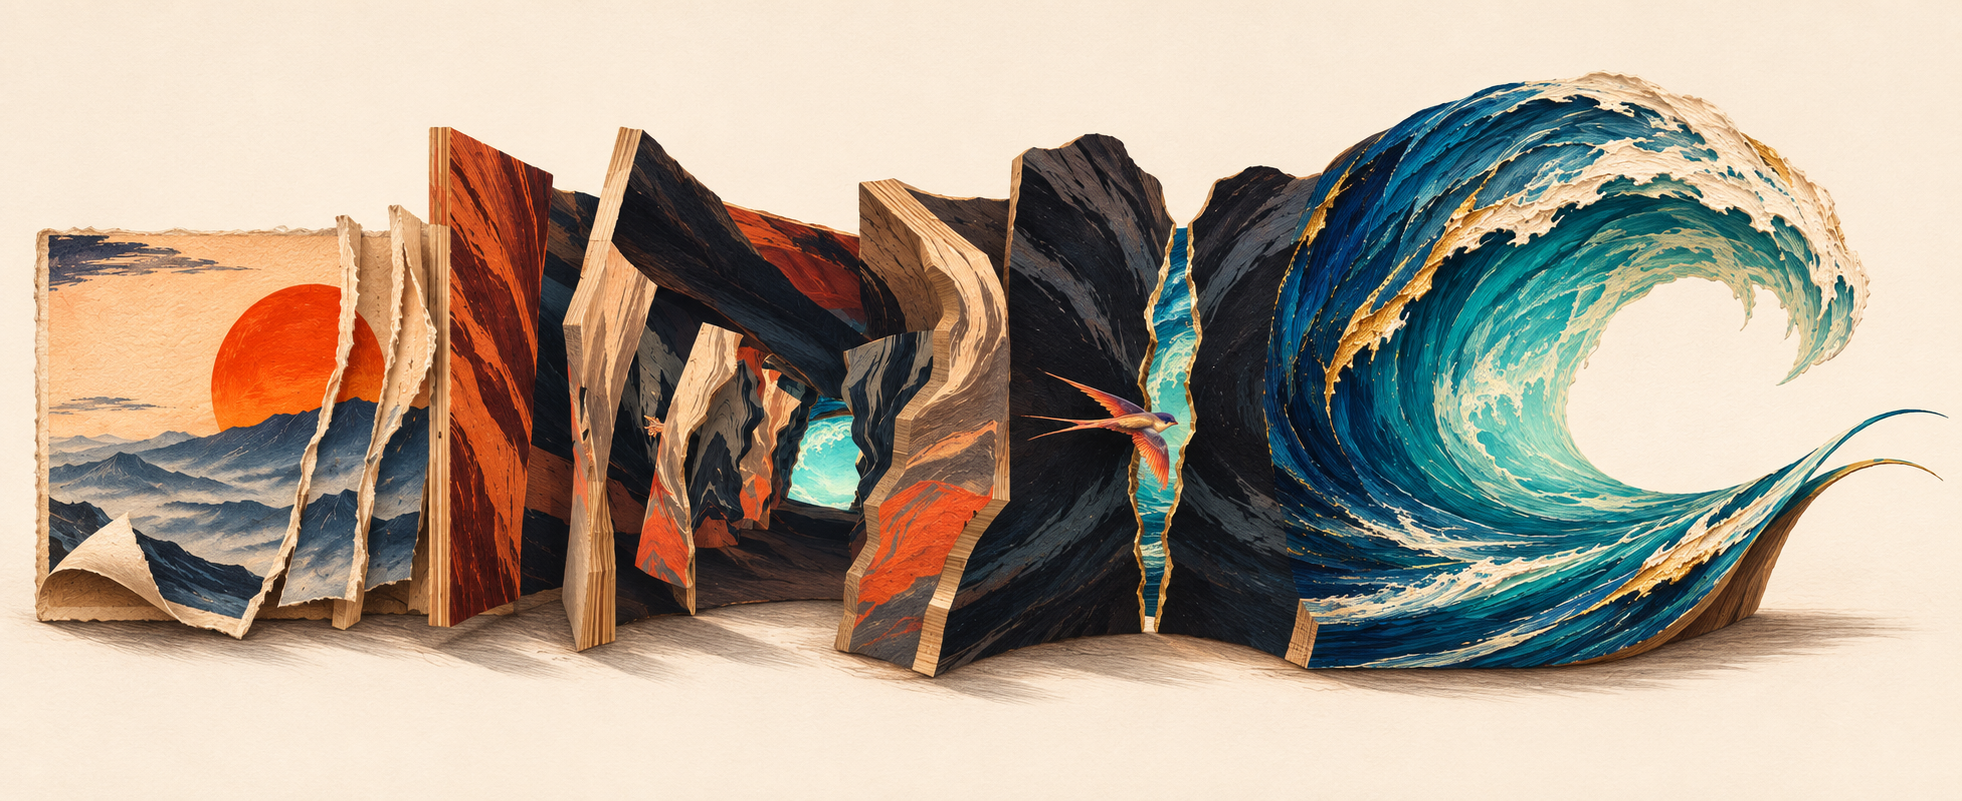
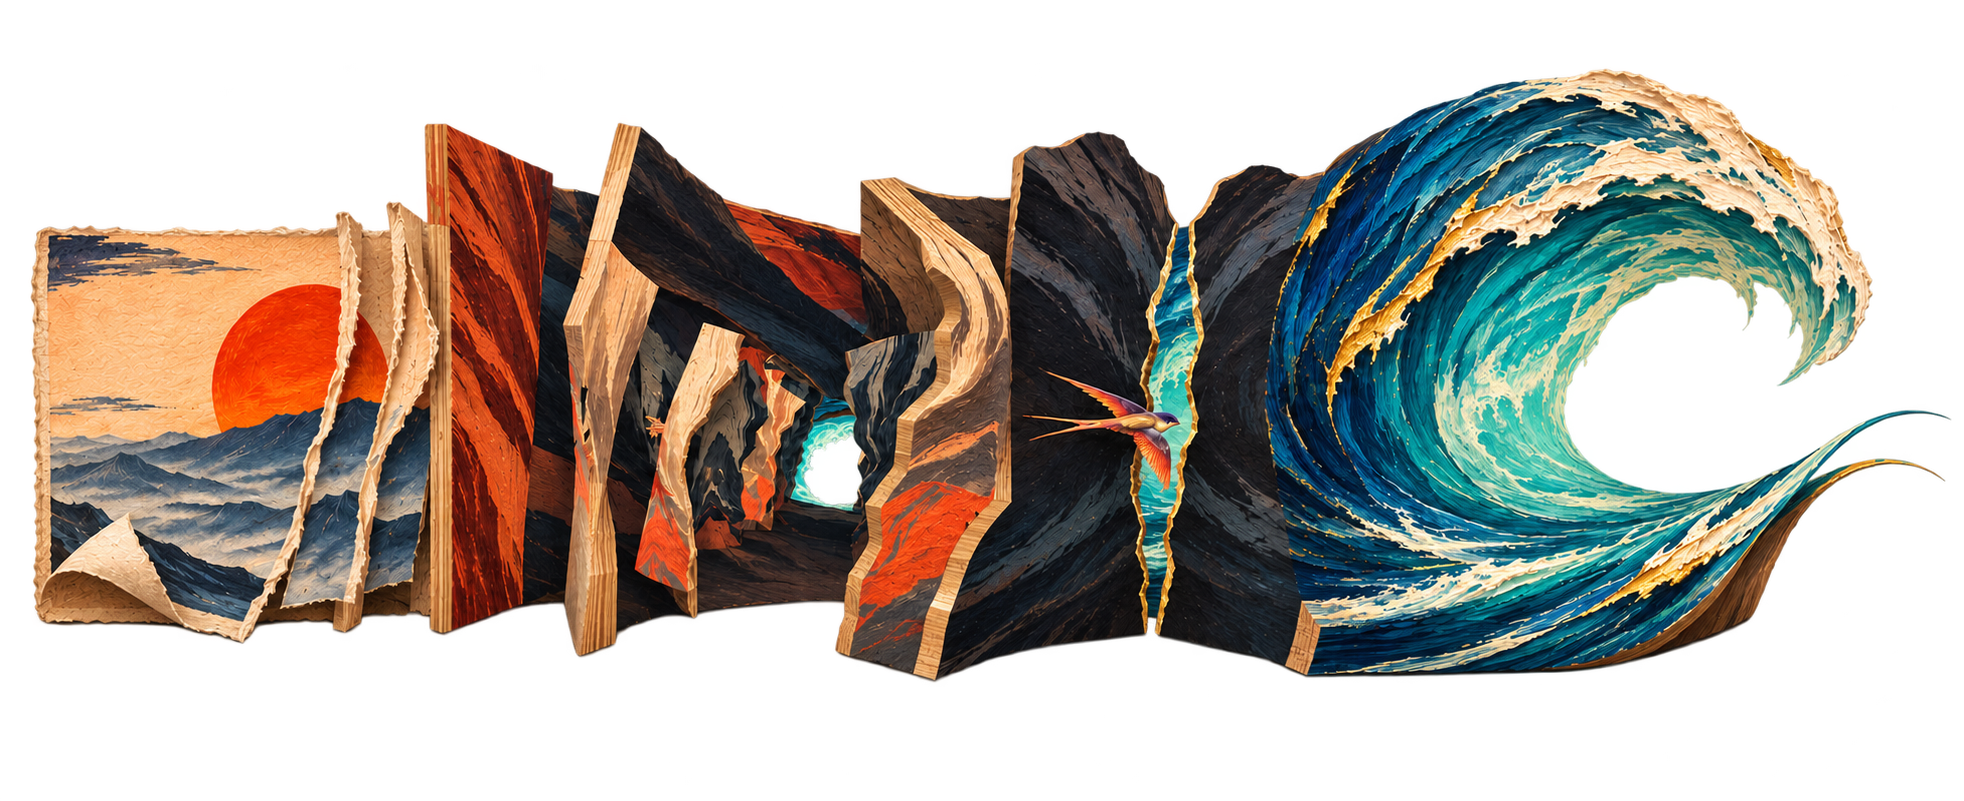
Set the guide on white and give its type and diagrams room

diff --git a/making-of.html b/making-of.html
@@ -1,8 +1,8 @@
 <!doctype html>
 <html lang="en"><head><meta charset="utf-8"><meta name="viewport" content="width=device-width,initial-scale=1">
 <link rel="icon" href="data:,"><meta name="author" content="Andy Woohoo"><meta name="theme-color" content="#181818"><meta name="description" content="How Andy Woohoo flew a swallow through three paintings with Codex and ImageGen. Six illustrated notes on the shaders, rig, painting prompts and 4K render."><meta property="og:title" content="Riptide — Making of"><meta property="og:image" content="https://andy-huang-szu.github.io/riptide-flight/docs/cover.jpg"><title>The Sun, Again / Riptide — Making of</title>
-<style>@font-face{font-family:Manrope;src:url(making-of-src/art/manrope.woff2) format("woff2");font-weight:200 800;font-display:swap}
-:root{--font:Manrope,"PingFang SC","Microsoft YaHei",sans-serif;--ink:#171b1d;--text:#30393c;--muted:#516166;--accent:#28666c;--paper:#fff;--mono:ui-monospace,"SFMono-Regular",Menlo,monospace}
+<style>@font-face{font-family:Geist;src:url(making-of-src/art/geist.woff2) format("woff2");font-weight:100 900;font-display:swap}
+:root{--font:Geist,"PingFang SC","Microsoft YaHei",sans-serif;--ink:#171b1d;--text:#30393c;--muted:#516166;--accent:#28666c;--paper:#fff;--mono:ui-monospace,"SFMono-Regular",Menlo,monospace}
 *{box-sizing:border-box}
 html{background:var(--paper);color:var(--ink);font:400 16px/1.4 var(--font);text-size-adjust:100%}
 body,h1,h2,p,figure,blockquote{margin:0}
@@ -47,7 +47,7 @@ img{display:block;max-width:100%}
 .route{display:grid;grid-template-rows:44px 243px 108px}
 .route-header{padding:13px 29px 0}
 .route h2{font-size:24px;font-weight:630;line-height:1;letter-spacing:-.05em}
-.model{overflow:hidden;width:100%;background:#f5e8d8}
+.model{overflow:hidden;width:100%;background:#fff}
 .model img{width:100%;height:100%;object-fit:cover;object-position:50% 55%}
 .stations{display:grid;grid-template-columns:repeat(4,minmax(0,1fr));gap:16px;padding:13px 29px 0}
 .station{text-align:left;align-self:start}
@@ -99,7 +99,7 @@ img{display:block;max-width:100%}
 .small-view figcaption>b{font-size:18px}.small-view figcaption>span{font-size:16px}
 .birdcard .math-note code{font-size:22px}
 .bird-bottom figure>img{height:145px}
-.bird-bottom figure:first-child>img{object-fit:contain;background:#f5e9d7}
+.bird-bottom figure:first-child>img{object-fit:contain;background:#fff}
 .compare-proof{text-align:left}
 .compare-proof .crops{display:grid;grid-template-columns:1fr 1fr;gap:5px;height:190px}
 .crops>div{position:relative;min-width:0;overflow:hidden}
@@ -157,10 +157,10 @@ html.export .reader{display:none}
 html.export #scroll-area{width:800px;max-width:none;overflow:visible}
 html.export .hero-motion{display:none}
 /* The original guide uses a slim chapter bar, a title, then a single stack of illustrated sections. */
-:root{--ink:#20262d;--text:#39444b;--muted:#5d6970;--accent:#28627a;--paper:#fff;--border:#dfe5e7;--canvas:#f6f8f8;--radius:8px}
+:root{--ink:#20262d;--text:#39444b;--muted:#5d6970;--accent:#28627a;--paper:#fff;--border:#dfe5e7;--canvas:#fff;--radius:8px}
 html{background:var(--canvas)}
 .page{width:100%;margin:0 auto}
-.reader{position:sticky;top:0;z-index:5;max-width:1216px;gap:16px;min-height:60px;margin:0 auto;padding:0 32px;background:#f6f8f8f5;color:var(--ink);backdrop-filter:blur(9px)}
+.reader{position:sticky;top:0;z-index:5;max-width:1216px;gap:16px;min-height:60px;margin:0 auto;padding:0 32px;background:#fffffff5;color:var(--ink);backdrop-filter:blur(9px)}
 .nav-chapters{display:flex;align-items:center;gap:18px;margin-right:auto}
 .reader :is(button,select,a):not(.wordmark){font-size:14px;line-height:1.4;font-weight:560;color:#435158;letter-spacing:0}
 .nav-chapters a:hover,.reader .actions a:hover,.reader .langs button:hover,.reader select:hover{color:var(--accent)}
@@ -226,7 +226,7 @@ html.export .guide-intro{display:none}
 .reading .route{display:contents}
 .reading .route-header{grid-area:heading;padding:0 75px 0 0}
 .reading .route h2{font-size:30px;line-height:1.15;letter-spacing:-.035em}
-.reading .model{grid-area:model;align-self:stretch;width:100%;margin:0;position:relative;background:#f5e8d8;overflow:hidden}
+.reading .model{grid-area:model;align-self:stretch;width:100%;margin:0;position:relative;background:#fff;overflow:hidden}
 .reading .model img{position:absolute;inset:0;object-fit:contain;height:100%;width:100%}
 .reading .stations{grid-area:stations;padding:0;gap:22px}
 .reading .stack{grid-area:stack;padding:6px 0 0;gap:18px 36px;grid-template-rows:auto auto}
@@ -322,6 +322,46 @@ dialog{border-radius:12px}
 .guide-facts>span{white-space:nowrap}
 .guide-facts>span+span:before{content:"·";display:inline-block;margin-right:12px;color:#71848b}
 @media(max-width:740px){.reader select{appearance:auto}.guide-facts{gap:8px}.guide-facts>span+span:before{margin-right:8px}}
+:root{--paper:#fff;--canvas:#fff;--ink:#1c2226;--text:#364047;--muted:#5a666d;--accent:#295d70;--border:#e5e9eb}
+html,body,.page,.model,.reading .model,.reading #book>article,.reading .guide-intro{background-color:white}
+.reader{background:#fffffff5}
+.guide-intro{padding-top:43px;padding-bottom:38px}
+.guide-intro h1{font-weight:560;letter-spacing:-.038em}
+.guide-intro p{font-weight:445;letter-spacing:-.015em;line-height:1.34}
+.reading #book{gap:38px}
+.reading .poster{padding:28px 32px 32px;gap:26px 24px}
+.reading .plate{padding:28px 32px 32px}
+.reading .platehead h2{font-size:clamp(30px,3vw,41px);font-weight:555;letter-spacing:-.03em;line-height:1.13;margin:15px 0 12px}
+.reading .platehead>p{font-weight:410;line-height:1.58;max-width:72ch}
+.reading .platebody{gap:29px;margin-top:24px}
+.reading .platebody .duo,.reading .bird-bottom{gap:22px}
+.reading .stations{gap:25px}
+.reading .stack{padding-top:12px;gap:24px 48px}
+.reading .station strong,.reading .stack strong,.reading .plate figcaption>b,.reading .textband>b,.reading .recipe b,.reading .pipeline>b,.reading .plothead strong,.reading .math-title>b,.reading .prompt-note>b{font-weight:590;letter-spacing:-.014em}
+.reading .plate figcaption>span,.reading .platebody p,.reading .stack p{line-height:1.53}
+.reading .recipe{gap:17px}
+.math-note,.pipeline,.prompt-note{background:#fff}
+.reading .math-note,.reading .pipeline,.reading .prompt-note{padding:0}
+.reading .math-note code,.reading .pipeline code{margin:9px 0}
+.reading .region-notes strong,.reading .registration strong{font-weight:500;letter-spacing:-.05em}
+.platehead h2{font-weight:600;letter-spacing:-.035em}
+.plate figcaption>b,.textband>b,.recipe b,.pipeline>b,.plothead strong,.math-title>b,.prompt-note>b,.stack strong{font-weight:610;letter-spacing:-.02em}
+[lang="zh-CN"] .guide-intro p,[lang="zh-CN"] .platehead h2,[lang="zh-CN"] .route h2,[lang="zh-CN"] .plate figcaption>b,[lang="zh-CN"] .stack strong{letter-spacing:0}
+[lang="zh-CN"] .reading .platehead h2,html.reading[lang="zh-CN"] .platehead h2{line-height:1.28;font-weight:540}
+.reading .model img{object-fit:contain}
+@media(max-width:740px){
+ .guide-intro{padding:26px 17px 24px}
+ .reading #book{gap:23px}
+ .reading .poster,.reading .plate{padding:20px 16px 23px}
+ .reading .poster{gap:18px}
+ .reading .platehead h2{font-size:30px;margin:14px 0 9px}
+ .reading .platebody{gap:22px;margin-top:18px}
+ .reading .platehead>p,.reading .plate figcaption>span,.reading .platebody p,.reading .stack p{line-height:1.53}
+ .reading .stations{gap:18px 16px}
+ .reading .stack{padding-top:8px;gap:18px}
+ .reading .recipe{gap:15px}
+ .reading .math-note,.reading .prompt-note,.reading .pipeline{padding:0}
+}
 </style></head>
 <body><div class="page">
 <nav class="reader" aria-label="Poster controls">
@@ -344,7 +384,7 @@ dialog{border-radius:12px}
     </header>
     <section class="route" aria-labelledby="route-title">
       <div class="route-header"><h2 id="route-title" data-t="section">Inside the 3D set</h2></div>
-      <figure class="model"><img src="making-of-src/art/cutaway.webp" data-alt="modelAlt" alt="Illustrated cutaway from a torn sun print through hinged pages and an ink fissure into a curling painted wave." width="1962" height="801"></figure>
+      <figure class="model"><img src="making-of-src/art/cutaway.webp" data-alt="modelAlt" alt="Illustrated cutaway from a torn sun print through hinged pages and an ink fissure into a curling painted wave." width="1964" height="801"></figure>
       <div class="stations">
         <button class="station" data-scene="tear"><time>00.62 s</time><strong data-t="tear">Tear the sky</strong><span data-t="tearShort">Split the landscape into three sheets.</span></button>
         <button class="station" data-scene="fold"><time>10.53 s</time><strong data-t="fold">Hinge 22 pages</strong><span data-t="foldShort">Stamp four wing poses onto the paper.</span></button>

diff --git a/making-of-src/guide-layout.css b/making-of-src/guide-layout.css
@@ -1,8 +1,8 @@
 /* The original guide uses a slim chapter bar, a title, then a single stack of illustrated sections. */
-:root{--ink:#20262d;--text:#39444b;--muted:#5d6970;--accent:#28627a;--paper:#fff;--border:#dfe5e7;--canvas:#f6f8f8;--radius:8px}
+:root{--ink:#20262d;--text:#39444b;--muted:#5d6970;--accent:#28627a;--paper:#fff;--border:#dfe5e7;--canvas:#fff;--radius:8px}
 html{background:var(--canvas)}
 .page{width:100%;margin:0 auto}
-.reader{position:sticky;top:0;z-index:5;max-width:1216px;gap:16px;min-height:60px;margin:0 auto;padding:0 32px;background:#f6f8f8f5;color:var(--ink);backdrop-filter:blur(9px)}
+.reader{position:sticky;top:0;z-index:5;max-width:1216px;gap:16px;min-height:60px;margin:0 auto;padding:0 32px;background:#fffffff5;color:var(--ink);backdrop-filter:blur(9px)}
 .nav-chapters{display:flex;align-items:center;gap:18px;margin-right:auto}
 .reader :is(button,select,a):not(.wordmark){font-size:14px;line-height:1.4;font-weight:560;color:#435158;letter-spacing:0}
 .nav-chapters a:hover,.reader .actions a:hover,.reader .langs button:hover,.reader select:hover{color:var(--accent)}
@@ -68,7 +68,7 @@ html.export .guide-intro{display:none}
 .reading .route{display:contents}
 .reading .route-header{grid-area:heading;padding:0 75px 0 0}
 .reading .route h2{font-size:30px;line-height:1.15;letter-spacing:-.035em}
-.reading .model{grid-area:model;align-self:stretch;width:100%;margin:0;position:relative;background:#f5e8d8;overflow:hidden}
+.reading .model{grid-area:model;align-self:stretch;width:100%;margin:0;position:relative;background:#fff;overflow:hidden}
 .reading .model img{position:absolute;inset:0;object-fit:contain;height:100%;width:100%}
 .reading .stations{grid-area:stations;padding:0;gap:22px}
 .reading .stack{grid-area:stack;padding:6px 0 0;gap:18px 36px;grid-template-rows:auto auto}
@@ -164,3 +164,43 @@ dialog{border-radius:12px}
 .guide-facts>span{white-space:nowrap}
 .guide-facts>span+span:before{content:"·";display:inline-block;margin-right:12px;color:#71848b}
 @media(max-width:740px){.reader select{appearance:auto}.guide-facts{gap:8px}.guide-facts>span+span:before{margin-right:8px}}
+:root{--paper:#fff;--canvas:#fff;--ink:#1c2226;--text:#364047;--muted:#5a666d;--accent:#295d70;--border:#e5e9eb}
+html,body,.page,.model,.reading .model,.reading #book>article,.reading .guide-intro{background-color:white}
+.reader{background:#fffffff5}
+.guide-intro{padding-top:43px;padding-bottom:38px}
+.guide-intro h1{font-weight:560;letter-spacing:-.038em}
+.guide-intro p{font-weight:445;letter-spacing:-.015em;line-height:1.34}
+.reading #book{gap:38px}
+.reading .poster{padding:28px 32px 32px;gap:26px 24px}
+.reading .plate{padding:28px 32px 32px}
+.reading .platehead h2{font-size:clamp(30px,3vw,41px);font-weight:555;letter-spacing:-.03em;line-height:1.13;margin:15px 0 12px}
+.reading .platehead>p{font-weight:410;line-height:1.58;max-width:72ch}
+.reading .platebody{gap:29px;margin-top:24px}
+.reading .platebody .duo,.reading .bird-bottom{gap:22px}
+.reading .stations{gap:25px}
+.reading .stack{padding-top:12px;gap:24px 48px}
+.reading .station strong,.reading .stack strong,.reading .plate figcaption>b,.reading .textband>b,.reading .recipe b,.reading .pipeline>b,.reading .plothead strong,.reading .math-title>b,.reading .prompt-note>b{font-weight:590;letter-spacing:-.014em}
+.reading .plate figcaption>span,.reading .platebody p,.reading .stack p{line-height:1.53}
+.reading .recipe{gap:17px}
+.math-note,.pipeline,.prompt-note{background:#fff}
+.reading .math-note,.reading .pipeline,.reading .prompt-note{padding:0}
+.reading .math-note code,.reading .pipeline code{margin:9px 0}
+.reading .region-notes strong,.reading .registration strong{font-weight:500;letter-spacing:-.05em}
+.platehead h2{font-weight:600;letter-spacing:-.035em}
+.plate figcaption>b,.textband>b,.recipe b,.pipeline>b,.plothead strong,.math-title>b,.prompt-note>b,.stack strong{font-weight:610;letter-spacing:-.02em}
+[lang="zh-CN"] .guide-intro p,[lang="zh-CN"] .platehead h2,[lang="zh-CN"] .route h2,[lang="zh-CN"] .plate figcaption>b,[lang="zh-CN"] .stack strong{letter-spacing:0}
+[lang="zh-CN"] .reading .platehead h2,html.reading[lang="zh-CN"] .platehead h2{line-height:1.28;font-weight:540}
+.reading .model img{object-fit:contain}
+@media(max-width:740px){
+ .guide-intro{padding:26px 17px 24px}
+ .reading #book{gap:23px}
+ .reading .poster,.reading .plate{padding:20px 16px 23px}
+ .reading .poster{gap:18px}
+ .reading .platehead h2{font-size:30px;margin:14px 0 9px}
+ .reading .platebody{gap:22px;margin-top:18px}
+ .reading .platehead>p,.reading .plate figcaption>span,.reading .platebody p,.reading .stack p{line-height:1.53}
+ .reading .stations{gap:18px 16px}
+ .reading .stack{padding-top:8px;gap:18px}
+ .reading .recipe{gap:15px}
+ .reading .math-note,.reading .prompt-note,.reading .pipeline{padding:0}
+}

diff --git a/making-of-src/film-guide.css b/making-of-src/film-guide.css
@@ -1,5 +1,5 @@
-@font-face{font-family:Manrope;src:url(@@MANROPE@@) format("woff2");font-weight:200 800;font-display:swap}
-:root{--font:Manrope,"PingFang SC","Microsoft YaHei",sans-serif;--ink:#171b1d;--text:#30393c;--muted:#516166;--accent:#28666c;--paper:#fff;--mono:ui-monospace,"SFMono-Regular",Menlo,monospace}
+@font-face{font-family:Geist;src:url(@@GEIST@@) format("woff2");font-weight:100 900;font-display:swap}
+:root{--font:Geist,"PingFang SC","Microsoft YaHei",sans-serif;--ink:#171b1d;--text:#30393c;--muted:#516166;--accent:#28666c;--paper:#fff;--mono:ui-monospace,"SFMono-Regular",Menlo,monospace}
 *{box-sizing:border-box}
 html{background:var(--paper);color:var(--ink);font:400 16px/1.4 var(--font);text-size-adjust:100%}
 body,h1,h2,p,figure,blockquote{margin:0}
@@ -44,7 +44,7 @@ img{display:block;max-width:100%}
 .route{display:grid;grid-template-rows:44px 243px 108px}
 .route-header{padding:13px 29px 0}
 .route h2{font-size:24px;font-weight:630;line-height:1;letter-spacing:-.05em}
-.model{overflow:hidden;width:100%;background:#f5e8d8}
+.model{overflow:hidden;width:100%;background:#fff}
 .model img{width:100%;height:100%;object-fit:cover;object-position:50% 55%}
 .stations{display:grid;grid-template-columns:repeat(4,minmax(0,1fr));gap:16px;padding:13px 29px 0}
 .station{text-align:left;align-self:start}
@@ -96,7 +96,7 @@ img{display:block;max-width:100%}
 .small-view figcaption>b{font-size:18px}.small-view figcaption>span{font-size:16px}
 .birdcard .math-note code{font-size:22px}
 .bird-bottom figure>img{height:145px}
-.bird-bottom figure:first-child>img{object-fit:contain;background:#f5e9d7}
+.bird-bottom figure:first-child>img{object-fit:contain;background:#fff}
 .compare-proof{text-align:left}
 .compare-proof .crops{display:grid;grid-template-columns:1fr 1fr;gap:5px;height:190px}
 .crops>div{position:relative;min-width:0;overflow:hidden}

diff --git a/making-of-src/poster.html b/making-of-src/poster.html
@@ -23,7 +23,7 @@
     </header>
     <section class="route" aria-labelledby="route-title">
       <div class="route-header"><h2 id="route-title" data-t="section">Inside the 3D set</h2></div>
-      <figure class="model"><img src="@@CUTAWAY@@" data-alt="modelAlt" alt="Illustrated cutaway from a torn sun print through hinged pages and an ink fissure into a curling painted wave." width="1962" height="801"></figure>
+      <figure class="model"><img src="@@CUTAWAY@@" data-alt="modelAlt" alt="Illustrated cutaway from a torn sun print through hinged pages and an ink fissure into a curling painted wave." width="1964" height="801"></figure>
       <div class="stations">
         <button class="station" data-scene="tear"><time>00.62 s</time><strong data-t="tear">Tear the sky</strong><span data-t="tearShort">Split the landscape into three sheets.</span></button>
         <button class="station" data-scene="fold"><time>10.53 s</time><strong data-t="fold">Hinge 22 pages</strong><span data-t="foldShort">Stamp four wing poses onto the paper.</span></button>

diff --git a/making-of-src/technical-views.js b/making-of-src/technical-views.js
@@ -7,7 +7,7 @@ function captureTechnical(name){
   if(name==='stamps'){
     const {data,width,height}=art.stamps.image,w=width/4;
     const display=canvas(1440,286),ctx=display.getContext('2d');
-    ctx.fillStyle='#f5e9d7';ctx.fillRect(0,0,display.width,display.height);
+    ctx.fillStyle='#ffffff';ctx.fillRect(0,0,display.width,display.height);
     const tile=canvas(w,height),tx=tile.getContext('2d');
     for(let j=0;j<4;j++){
       const im=tx.createImageData(w,height),ink=j%2?[166,61,38]:[30,55,65];

diff --git a/making-of-src/build_poster.py b/making-of-src/build_poster.py
@@ -22,7 +22,7 @@ def build():
     css = (SRC / 'film-guide.css').read_text() + (SRC / 'guide-layout.css').read_text()
     def asset(path, mime=None):
         return ('assets/' if path.parent == REPO / 'assets' else 'making-of-src/art/') + path.name
-    css = css.replace('@@MANROPE@@', asset(ART / 'manrope.woff2', 'font/woff2'))
+    css = css.replace('@@GEIST@@', asset(ART / 'geist.woff2', 'font/woff2'))
     pictures = {name: asset(ART / ('frame-' + shot + '.webp')) for name, shot in
                 [('tear', 'tear'), ('fold', 'print'), ('bank', 'rift'), ('peel', 'return')]}
     pictures['plates'] = [asset(ART / ('plate-' + key + '.webp')) for key in ('dawn', 'strata', 'tide')]

diff --git a/making-of-src/imagegen-prompt.md b/making-of-src/imagegen-prompt.md
@@ -1,5 +1,13 @@
 # Cutaway illustration
 
+The final guide uses an alpha cutout so the painted object sits directly on the white page.
+
+### Transparent-background edit prompt
+
+Edit target: the attached single panoramic technical cutaway maquette from the film Riptide. Deliver exactly the existing object isolated on transparent alpha (RGBA) for an entirely pure white web page. This is a precision background removal. Keep the full existing panorama, torn red sun print on the left, all woodcut gates and slit, the tiny flying swallow, the entire hollow blue and gold wave and its two wispy tips at right, all their relative positions, colours and intricate painterly detail. Remove all cream/buff/yellow paper visibly surrounding the silhouette and visible through openings, including the center of the curl. The backdrop must have true zero alpha, with no paper tint and no drawn backdrop. Retain fine semi-transparent antialiasing at the outline and at most a tiny neutral soft contact shadow, no colored floor. Fill most of the panoramic frame, keep generous clarity and 2–3% breathing room at the outermost extremities, all subjects in full. Do not add text, additional objects, logos, border, new lighting, or change the artwork style. The sole deliverable is the unlettered cut-out illustration.
+
+### Original illustration prompt
+
 Generated with the built-in ImageGen tool. Four references were frames from the actual film at 0.00, 8.85, 14.78 and 17.17 seconds. The photograph-like cutaway illustrates the scene layout. The film stills, texture patches, and before-and-after crops in the poster come from the production itself.
 
 Use case: infographic-diagram

diff --git a/CREDITS.md b/CREDITS.md
@@ -16,7 +16,7 @@ The original project code, source paintings, generated cutaway, procedural bird 
 | --- | --- |
 | Three.js r186 and GLTFLoader | [MIT](licenses/three-LICENSE.txt) |
 | Mediabunny 1.66.0, used for export | [MPL-2.0](licenses/mediabunny-LICENSE.txt) |
-| Manrope | [SIL OFL](licenses/manrope-OFL.txt) |
+| Geist | [SIL OFL](licenses/geist-OFL.txt) |
 | Instrument Sans | [SIL OFL](licenses/instrument-sans-OFL.txt) |
 
 The optional texture restoration tool uses the upstream Real-ESRGAN general-x4v3 checkpoint. The script checks the published file against the recorded SHA-256 digest. [Upstream release](https://github.com/xinntao/Real-ESRGAN/releases/tag/v0.2.5.0)
